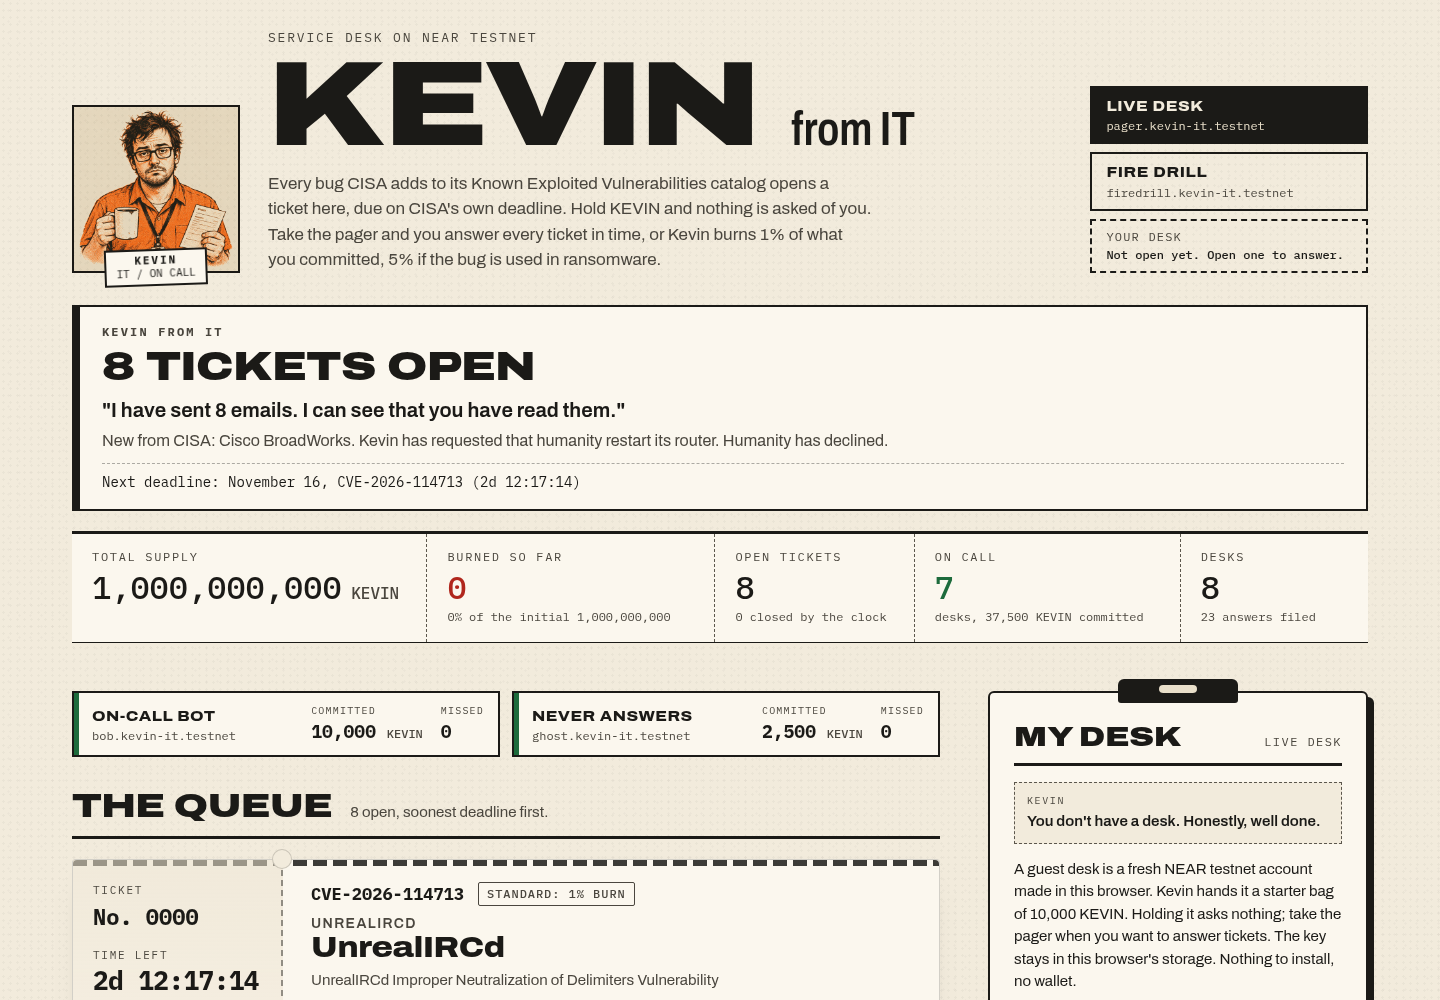
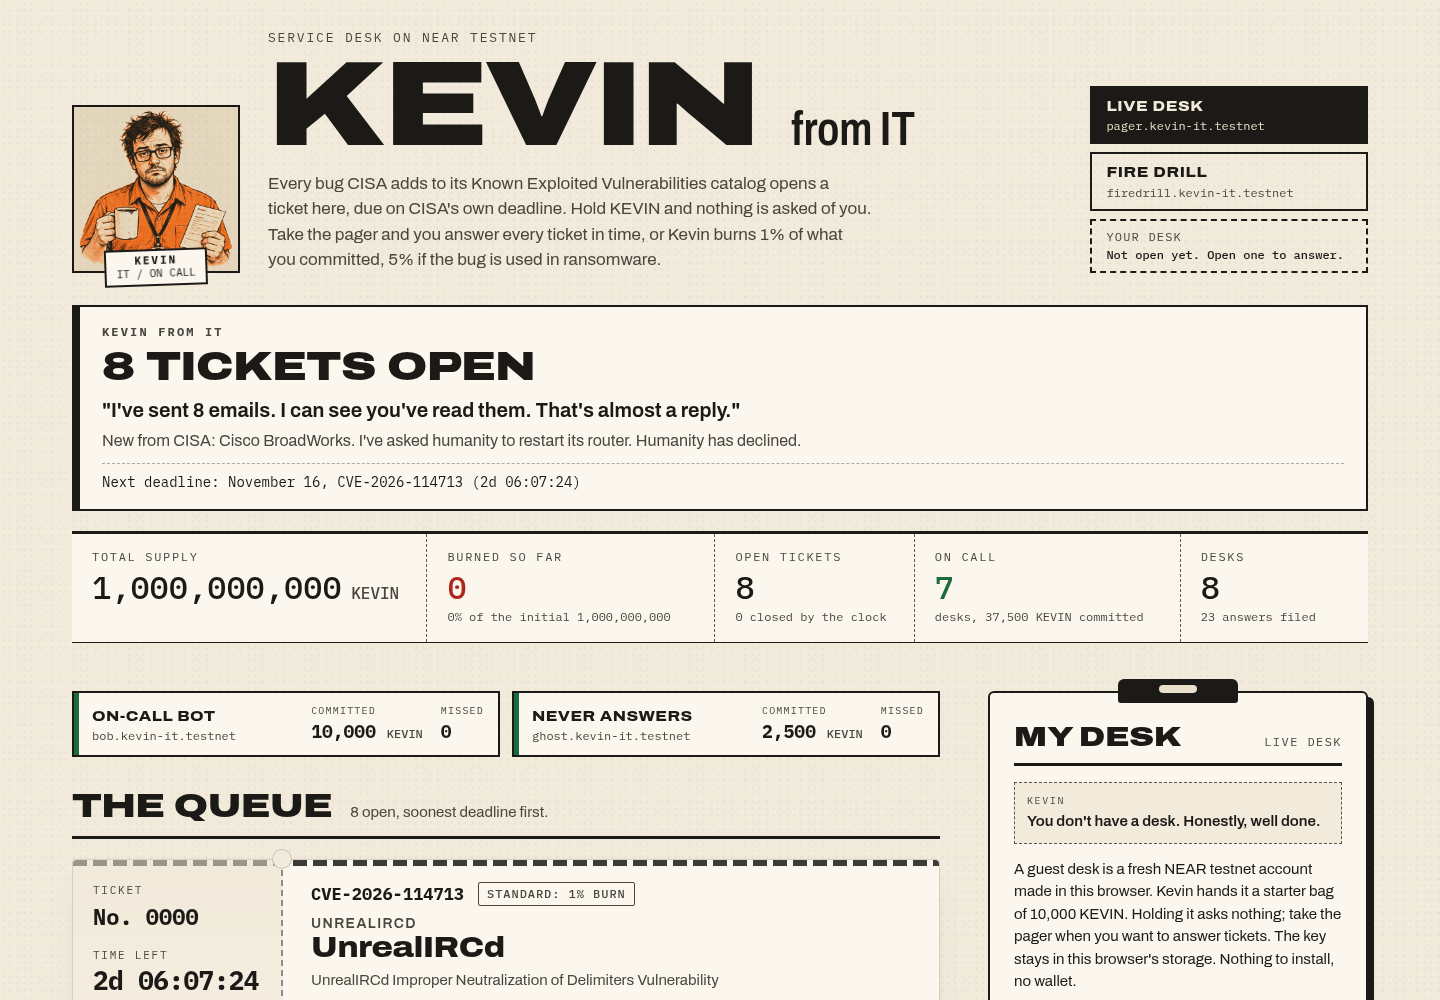
Kevin talks in the first person
Every line on the status board, the ticket notes, the desk and the leaderboard is now Kevin speaking for
himself: sincere, proud of his emails, sure the pager likes him. The rules that pick each line are unchanged;
only the fixed text changed. The note on a ticket due inside 24 hours says "Due soon" instead of "Due
tomorrow", which was wrong on the fire drill desk. README screenshots retaken on the live desk.

Changed region(s): [[0.0938, 0.403, 0.625, 0.496], [0.0938, 0.961, 0.1562, 0.992]]

diff --git a/web/src/kevinSays.js b/web/src/kevinSays.js
@@ -1,5 +1,6 @@
 // Everything Kevin says, as pure functions over plain chain data (stats, tickets, a desk, a clock).
 // The jokes are fixed copy; every number, CVE id, product and date in them comes from the arguments.
+// Kevin talks in the first person: sincere, proud of his emails, and sure the pager likes him.
 // Each list of rules is checked top down and the first true rule wins.
 import { countdown, countdownWords, fmtInt, fmtToken } from './format.js';
 import { monthName, monthOf } from './roster.js';
@@ -32,9 +33,12 @@ const monthDay = (ms) => {
 // ---------- status board ----------
 
 export const QUOTES = {
-  nobodyOnCall: 'The pager is on my desk. It is ringing. Nobody is on call.',
-  ignored: (opened) => `Per my last ${count(opened, 'email', 'emails')}...`,
-  open: (opened) => `I have sent ${count(opened, 'email', 'emails')}. I can see that you have read them.`,
+  nobodyOnCall: "Nobody's on call. The pager keeps ringing anyway. I think it's lonely.",
+  ignored: (opened) =>
+    opened === 1
+      ? 'Per my last email, which was also my best email...'
+      : `Per my last ${fmtInt(opened)} emails, which were also my best ${fmtInt(opened)} emails...`,
+  open: (opened) => `I've sent ${count(opened, 'email', 'emails')}. I can see you've read them. That's almost a reply.`,
   inboxZero: "Inbox zero. I don't trust it.",
 };
 
@@ -72,21 +76,21 @@ export function eventLine({ stats, tickets, now, kind = 'live', unsettled = fals
   if (ignored) {
     // settled misses only: while other desks are still waiting to be settled, these are lower bounds
     return unsettled
-      ? `At least ${count(num(ignored.missed), 'on-call desk', 'on-call desks')} ignored ${ignored.cve_id} (${ignored.product}). Kevin has burned ${fmtToken(ignored.burned)} KEVIN so far. It was in the email.`
-      : `${count(num(ignored.missed), 'on-call desk', 'on-call desks')} ignored ${ignored.cve_id} (${ignored.product}). Kevin burned ${fmtToken(ignored.burned)} KEVIN. It was in the email.`;
+      ? `At least ${count(num(ignored.missed), 'on-call desk', 'on-call desks')} ignored ${ignored.cve_id} (${ignored.product}). I've burned ${fmtToken(ignored.burned)} KEVIN so far. It was in the email.`
+      : `${count(num(ignored.missed), 'on-call desk', 'on-call desks')} ignored ${ignored.cve_id} (${ignored.product}). I burned ${fmtToken(ignored.burned)} KEVIN. It was in the email.`;
   }
   const clean = !unsettled && recent.find((t) => num(t.missed) === 0 && num(t.closes) > 0);
-  if (clean) return `Everyone on call answered ${clean.cve_id} before the deadline. Kevin does not have a template for this.`;
+  if (clean) return `Everyone on call answered ${clean.cve_id} before the deadline. I don't have a template for this. I'm making one.`;
   const open = tickets.filter((t) => isOpen(t, now)).sort(byDeadline);
   const ransom = open.find((t) => t.ransomware);
   if (ransom) {
-    return `${ransom.cve_id} (${ransom.vendor} ${ransom.product}) is being used by ransomware crews. Kevin has asked humanity to patch it. Humanity is "looking into it".`;
+    return `Ransomware crews are using ${ransom.cve_id} (${ransom.vendor} ${ransom.product}). I asked humanity to patch it. Humanity is "looking into it", which is nice of them.`;
   }
   const fresh = tickets
     .filter((t) => num(t.opened_at_ms) <= now && now - num(t.opened_at_ms) < NEW_TICKET_MS)
     .sort((a, b) => num(b.opened_at_ms) - num(a.opened_at_ms))[0];
-  if (fresh) return `New from CISA: ${fresh.vendor} ${fresh.product}. Kevin has requested that humanity restart its router. Humanity has declined.`;
-  return `${fmtInt(open.length)} open, ${count(num(stats?.on_call), 'desk', 'desks')} on call, ${fmtToken(stats?.burned_total)} KEVIN burned so far. Kevin is fine. This is fine.`;
+  if (fresh) return `New from CISA: ${fresh.vendor} ${fresh.product}. I've asked humanity to restart its router. Humanity has declined.`;
+  return `${fmtInt(open.length)} open, ${count(num(stats?.on_call), 'desk', 'desks')} on call, ${fmtToken(stats?.burned_total)} KEVIN burned so far. I'm fine. This is fine.`;
 }
 
 // The soonest open deadline, or null when nothing is open.
@@ -111,19 +115,19 @@ export function statusBoard(args) {
 export const TICKET_ROTATION = [
   'Have you tried turning it off and patching it?',
   'CISA opened this ticket, not me. I just work here.',
-  'Somebody marked this "low priority". It was not me.',
-  'Please do not reply-all.',
+  'Somebody marked this "low priority". It wasn\'t me. I\'d never.',
+  "Please don't reply-all. Last time was a long week.",
 ];
 
 // `unsettled` as in eventLine: while some on-call desk still has a miss waiting to be settled, an
 // expired ticket with `missed: 0` is not yet proof that everyone answered.
 export function ticketNote(t, now, { unsettled = false } = {}) {
   if (isExpired(t, now)) {
-    if (num(t.missed) > 0) return `Closed by the clock. ${fmtInt(t.missed)} did not answer. I have updated the spreadsheet.`;
-    return unsettled ? 'Closed by the clock. I am still counting who answered.' : 'Closed by the clock. Everyone answered. Suspicious.';
+    if (num(t.missed) > 0) return `Closed by the clock. ${fmtInt(t.missed)} didn't answer. I've updated the spreadsheet. It's a good spreadsheet.`;
+    return unsettled ? "Closed by the clock. I'm still counting who answered. I count slow, but I count right." : 'Closed by the clock. Everyone answered. Suspicious.';
   }
-  if (t.ransomware) return `Ransomware crews use this one. It is ${num(t.burn_bps) / 100}%. I don't make the rules. I do enforce them.`;
-  if (num(t.deadline_ms) - now < DAY) return 'Due tomorrow. I have put it in bold. I have put it in red. I have put it in your calendar.';
+  if (t.ransomware) return `Ransomware crews use this one, so it's ${num(t.burn_bps) / 100}%. I don't make the rules. I do enforce them. That's the fun part.`;
+  if (num(t.deadline_ms) - now < DAY) return "Due soon. I put it in bold. I put it in red. I put it in your calendar. Then I ran out of places.";
   if (num(t.closes) === 0) return "No replies yet. I can see you've opened it.";
   return TICKET_ROTATION[num(t.id) % 4];
 }
@@ -133,13 +137,14 @@ export function ticketNote(t, now, { unsettled = false } = {}) {
 export const DESK_LINES = {
   noDesk: "You don't have a desk. Honestly, well done.",
   holder: 'You hold KEVIN. Nothing is expected of you. Nothing will burn. I envy you.',
-  queue: (n) => `You have ${count(n, 'ticket', 'tickets')} in your queue. Per my last ${count(n, 'email', 'emails')}.`,
+  queue: (n) =>
+    `You've got ${count(n, 'ticket', 'tickets')} in your queue. I emailed you about ${n === 1 ? 'it' : 'each one'}. ${n === 1 ? "It's one of my best emails." : "They're some of my best emails."}`,
   clear: 'Queue is clear. Go home. Keep the pager on.',
   pendingBurn: (cve, amount) =>
-    `You missed ${cve}. Kevin is burning ${fmtToken(amount)} KEVIN of what you committed. It isn't personal. It's in the contract.`,
+    `You missed ${cve}. I'm burning ${fmtToken(amount)} KEVIN of what you committed. It isn't personal. It's in the contract.`,
   clockOutRefused: "You can't clock out with tickets in your queue. Nobody can. I've tried.",
   behind: (n) => `Your desk has ${count(n, 'expired ticket', 'expired tickets')} to settle. Settle first, then clock out.`,
-  shiftRefused: (endsMs) => `Your shift ends ${whenText(endsMs)}. You took the pager. The pager does not care.`,
+  shiftRefused: (endsMs) => `Your shift ends ${whenText(endsMs)}. You took the pager. The pager doesn't care. I care a little.`,
 };
 
 // "November 21, 18:04 UTC"
@@ -178,9 +183,9 @@ export function clockOutBlock({ desk, tickets, statements, now }) {
 }
 
 export const ACTION_LINES = {
-  answered: 'Noted. That is one more reply than most people send.',
-  onCall: 'Welcome to the rota. The pager is yours. It does not have an off switch.',
-  clockedOut: 'Pager returned. Tokens returned. Kevin remains.',
+  answered: "Noted. That's one more reply than most people send. I'm telling everyone.",
+  onCall: "Welcome to the rota. The pager's yours. It doesn't have an off switch. I looked.",
+  clockedOut: "Pager returned. Tokens returned. I'm still here. I'm always here.",
 };
 
 // Open tickets this desk has not answered: what blocks clock_out, and the queue count.
@@ -221,5 +226,5 @@ export function deskLine({ desk, tickets = [], statements = {}, now }) {
 export const EOTM = {
   heading: (now) => `Employee of the Month: ${monthName(monthOf(now))}`,
   note: 'Answers are self-reported. A clicked "Fixed" proves a desk answered before CISA\'s deadline. It does not prove anything was patched.',
-  empty: 'Nobody has taken the pager yet. The plaque is still in its bubble wrap.',
+  empty: "Nobody's taken the pager yet. The plaque is still in its bubble wrap. I haven't popped any. Okay, I popped one.",
 };

diff --git a/web/src/components/StatusBoard.jsx b/web/src/components/StatusBoard.jsx
@@ -11,7 +11,7 @@ export function StatusBoard({ stats, tickets, now, kind, roster, loaded, error, 
         <h2 className="board-headline" id="board-h">
           Reading the queue...
         </h2>
-        <p className="board-event">Kevin is opening his email. It takes a second.</p>
+        <p className="board-event">I'm opening my email. It takes a second.</p>
       </section>
     );
   }

diff --git a/README.md b/README.md
@@ -177,9 +177,9 @@ silence. It does not rank security.
 Every line Kevin says is picked by a rule in `web/src/kevinSays.js` from what is on chain and in the catalog:
 the number of tickets open, the CVE and product of the one that just expired, how many desks ignored it and how
 many KEVIN that burned, whether an open bug is ransomware-flagged, whether a deadline is inside 24 hours. The
-numbers, ids, names and dates are real. The jokes are jokes: Kevin has not in fact asked humanity to restart its
-router. No language model runs anywhere in this project; the lines are fixed text with data filled in, and
-`npm test` covers every rule.
+numbers, ids, names and dates are real. Kevin talks in the first person, and the jokes are jokes: he has not in
+fact asked humanity to restart its router. No language model runs anywhere in this project; the lines are fixed
+text with data filled in, and `npm test` covers every rule.
 
 ## How NEAR is used
 
